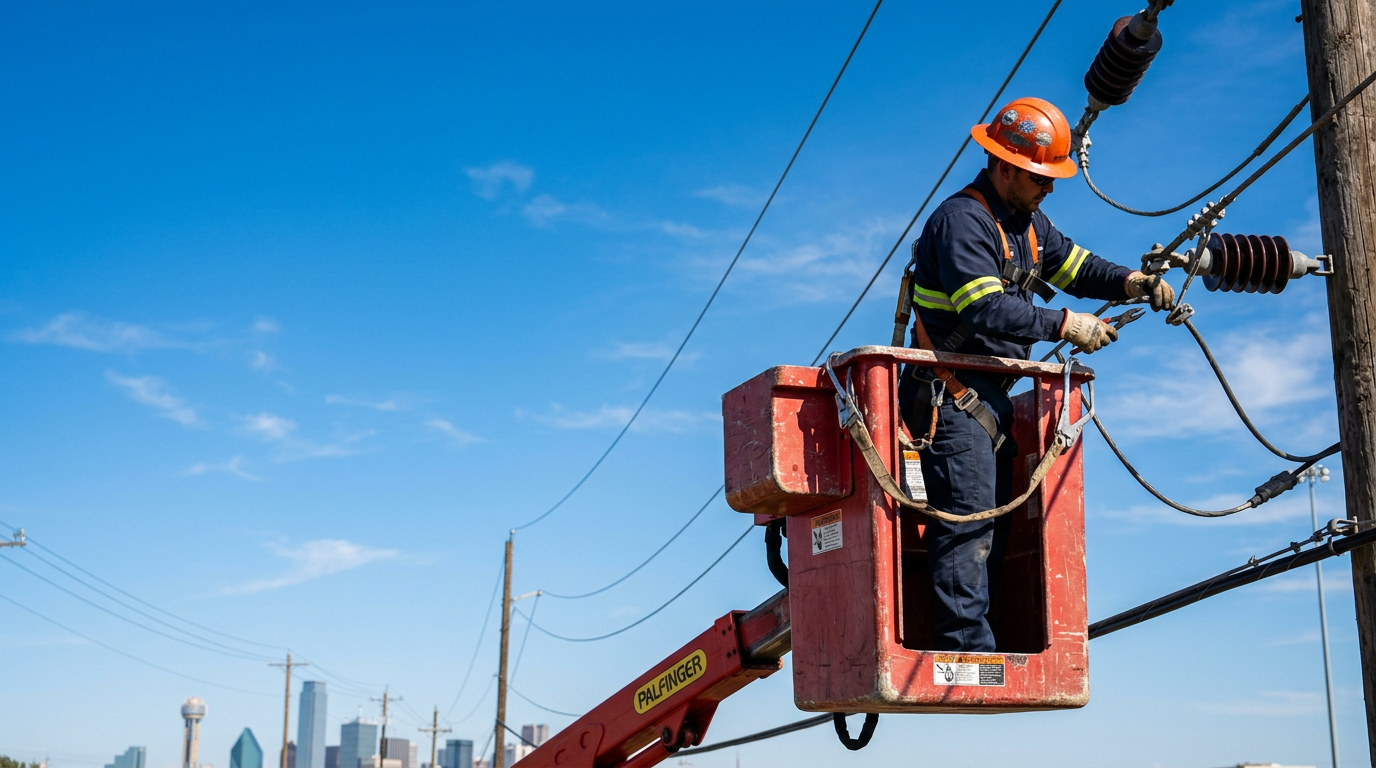
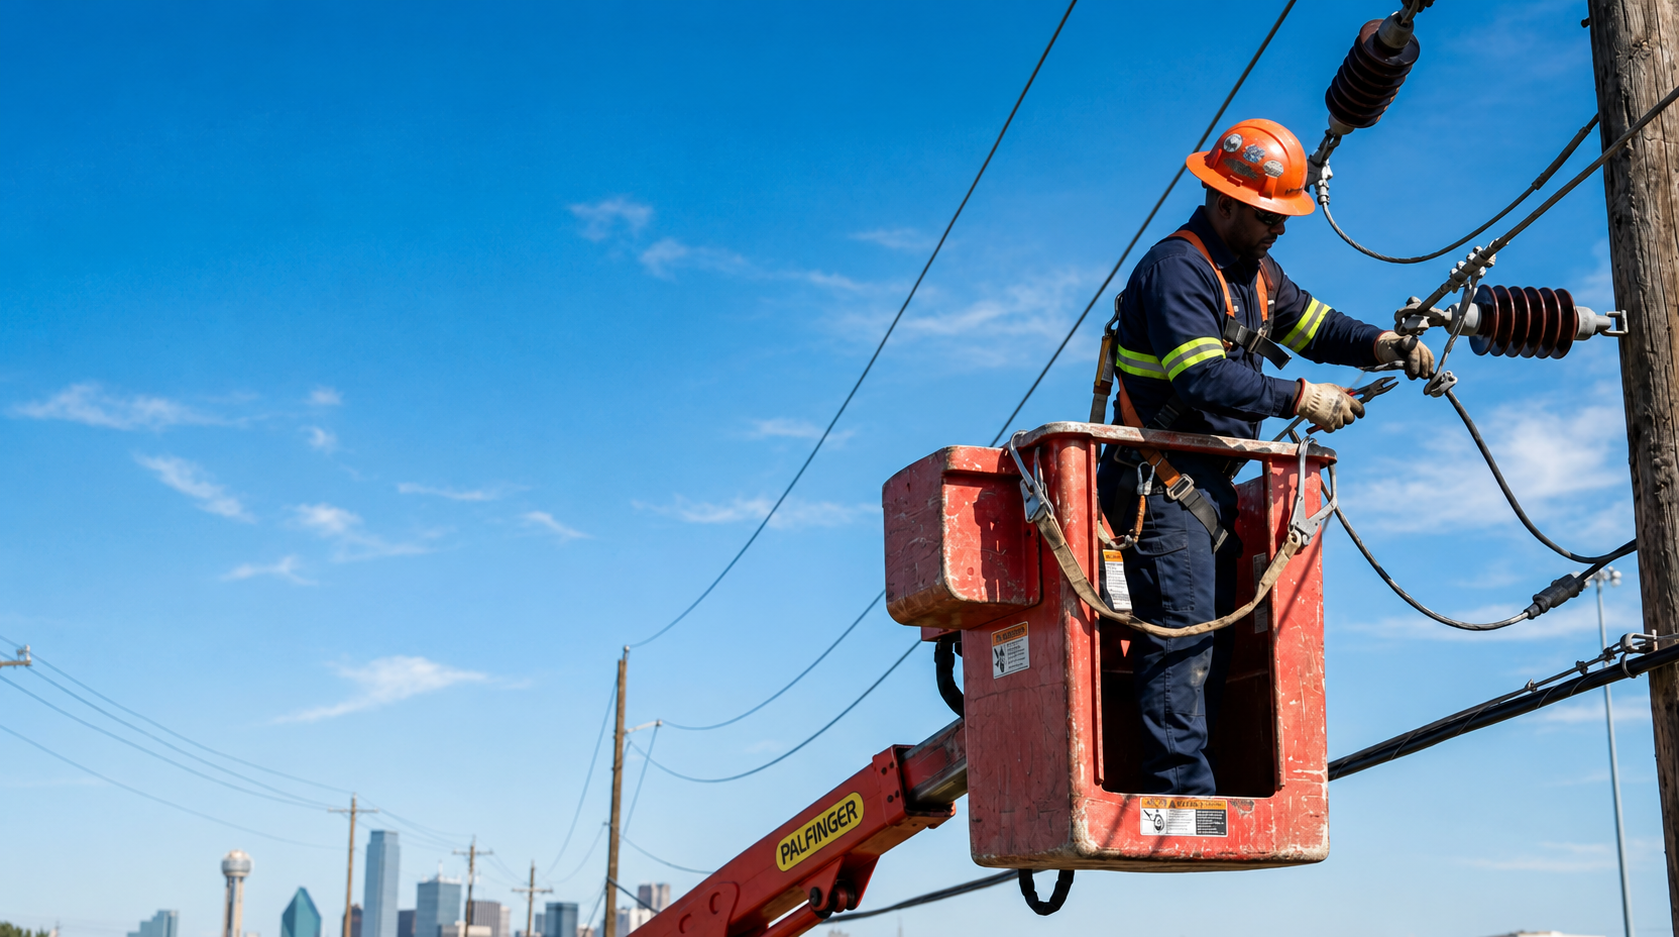
habiteck yellow

diff --git a/app/globals.css b/app/globals.css
@@ -167,8 +167,8 @@
   --site-ink: #171a1d;
   --site-deep: #11161b;
   --site-muted: #6b7279;
-  --site-yellow: #f5b900;
-  --site-yellow-bright: #ffc400;
+  --site-yellow: #58b51b;
+  --site-yellow-bright: #61c522;
   --site-line: #e6e8ea;
   overflow: hidden;
   background: #fff;
@@ -217,10 +217,10 @@
 .button { min-height: 48px; padding: 0 21px; display: inline-flex; align-items: center; justify-content: center; gap: 10px; border: 1px solid transparent; font-size: 12px; font-weight: 800; transition: transform .18s ease, background .18s ease, border-color .18s ease; }
 .button:hover { transform: translateY(-2px); }
 .button-primary { background: var(--site-yellow-bright); color: #15191c !important; }
-.button-primary:hover { background: #ffd23b; }
-.button-outline { border-color: rgba(255, 196, 0, .85); color: #fff !important; }
+.button-primary:hover { background: #75d53c; }
+.button-outline { border-color: rgba(97, 197, 34, .85); color: #fff !important; }
 .button-outline svg { color: var(--site-yellow-bright); }
-.button-outline:hover { background: rgba(255, 196, 0, .12); }
+.button-outline:hover { background: rgba(97, 197, 34, .12); }
 .hero-proof { margin-top: 35px; display: flex; align-items: center; gap: 14px; }
 .avatar-stack { display: flex; align-items: center; padding-left: 2px; }
 .avatar-stack span { width: 34px; height: 34px; margin-left: -5px; display: grid; place-items: center; border: 2px solid #272e34; border-radius: 50%; background: #d6a27f; color: #2b211c; font-size: 9px; font-weight: 800; }
@@ -243,31 +243,31 @@
 .trust-stat { min-height: 44px; padding-inline: 25px; display: flex; align-items: center; gap: 13px; border-right: 1px solid var(--site-line); }
 .trust-stat:first-child { padding-left: 0; }
 .trust-stat:last-child { padding-right: 0; border: 0; }
-.trust-stat > svg { flex: 0 0 auto; color: #c79400; stroke-width: 1.7; }
+.trust-stat > svg { flex: 0 0 auto; color: #4b9818; stroke-width: 1.7; }
 .trust-stat span { display: flex; flex-direction: column; }
 .trust-stat strong { font-size: 12px; line-height: 1.4; }
 .trust-stat small { margin-top: 3px; color: var(--site-muted); font-size: 10px; }
 .section-pad { padding-block: 100px; }
 .services-section { background: #f8f8f6; }
 .section-heading { margin-bottom: 39px; display: flex; align-items: end; justify-content: space-between; gap: 40px; }
-.section-heading .eyebrow, .booking-copy .eyebrow { margin-bottom: 13px; color: #8a6a09; }
+.section-heading .eyebrow, .booking-copy .eyebrow { margin-bottom: 13px; color: #438516; }
 .section-heading h2, .why-copy h2, .booking-copy h2 { margin: 0; font-size: clamp(36px, 4vw, 52px); font-weight: 600; letter-spacing: -.055em; line-height: 1.04; }
-.section-heading h2 span { color: #bf9100; }
+.section-heading h2 span { color: #58b51b; }
 .section-summary { max-width: 390px; margin: 0 0 2px; color: var(--site-muted); font-size: 13px; line-height: 1.7; }
 .service-grid { display: grid; grid-template-columns: repeat(4, minmax(0, 1fr)); gap: 15px; }
 .service-card { min-height: 236px; padding: 24px 22px 22px; display: flex; flex-direction: column; align-items: flex-start; border: 1px solid #e6e8e8; background: #fff; transition: transform .18s ease, box-shadow .18s ease; }
 .service-card:hover { transform: translateY(-4px); box-shadow: 0 14px 34px rgba(15, 22, 28, .08); }
 .service-card-top { width: 100%; display: flex; align-items: flex-start; justify-content: space-between; }
-.service-icon { width: 42px; height: 42px; display: grid; place-items: center; background: #fff5d5; color: #947000; }
+.service-icon { width: 42px; height: 42px; display: grid; place-items: center; background: #eff8e8; color: #478d1c; }
 .service-number { color: #aeb3b6; font-size: 10px; font-weight: 700; letter-spacing: .1em; }
 .service-card h3 { margin: 20px 0 8px; font-size: 16px; letter-spacing: -.02em; }
 .service-card p { margin: 0 0 18px; color: var(--site-muted); font-size: 11px; line-height: 1.65; }
-.service-card > a { margin-top: auto; display: inline-flex; align-items: center; gap: 7px; color: #765b00; font-size: 10px; font-weight: 800; }
-.service-card > a:hover { color: #aa8000; }
+.service-card > a { margin-top: auto; display: inline-flex; align-items: center; gap: 7px; color: #438516; font-size: 10px; font-weight: 800; }
+.service-card > a:hover { color: #58a91c; }
 
 .why-section { background: #151b20; color: #fff; }
 .why-layout { display: grid; grid-template-columns: .82fr 1.18fr; align-items: center; gap: 78px; }
-.why-copy .eyebrow { color: #e7bd45; }
+.why-copy .eyebrow { color: #83cf4a; }
 .why-copy h2 { font-size: clamp(42px, 5vw, 63px); }
 .why-copy h2 span { color: var(--site-yellow-bright); }
 .why-copy > p:not(.eyebrow) { max-width: 390px; margin: 23px 0 22px; color: #b7bec3; font-size: 13px; line-height: 1.8; }
@@ -281,25 +281,25 @@
 .photo-badge strong { font-size: 15px; }
 .benefit-list { display: grid; grid-template-columns: 1fr 1fr; gap: 13px 20px; }
 .benefit-item { display: flex; align-items: center; gap: 10px; color: #e4e7e8; font-size: 11px; line-height: 1.5; }
-.benefit-item > span { width: 21px; height: 21px; flex: 0 0 auto; display: grid; place-items: center; border-radius: 50%; background: rgba(245,185,0,.16); color: var(--site-yellow-bright); }
+.benefit-item > span { width: 21px; height: 21px; flex: 0 0 auto; display: grid; place-items: center; border-radius: 50%; background: rgba(88,181,27,.16); color: var(--site-yellow-bright); }
 
 .booking-section { background: #f7f8f8; }
 .booking-layout { display: grid; grid-template-columns: .72fr 1.28fr; align-items: start; gap: 68px; }
 .booking-copy { padding-top: 25px; }
 .booking-copy h2 { font-size: clamp(42px, 5vw, 62px); }
-.booking-copy h2 span { color: #b98900; }
+.booking-copy h2 span { color: #4d9619; }
 .booking-lede { max-width: 360px; margin: 23px 0 26px; color: var(--site-muted); font-size: 13px; line-height: 1.75; }
 .booking-callout { max-width: 330px; padding: 14px; display: flex; align-items: center; gap: 13px; border: 1px solid #e2e4e5; background: #fff; }
-.call-icon { width: 39px; height: 39px; display: grid; place-items: center; background: #fff4cf; color: #886900; }
+.call-icon { width: 39px; height: 39px; display: grid; place-items: center; background: #eff8e8; color: #478d1c; }
 .booking-callout > span:nth-child(2) { display: flex; flex: 1; flex-direction: column; }
 .booking-callout small { color: var(--site-muted); font-size: 10px; }
 .booking-callout strong { font-size: 14px; }
-.call-arrow { color: #8b6a00; }
+.call-arrow { color: #478d1c; }
 .booking-note { margin-top: 18px; display: flex; align-items: center; gap: 8px; color: #596168; font-size: 10px; }
-.booking-note svg { color: #9a7600; }
+.booking-note svg { color: #4b9818; }
 .booking-form { padding: 31px; border: 1px solid #e5e7e8; background: #fff; box-shadow: 0 18px 50px rgba(21, 29, 36, .07); }
 .form-intro { margin-bottom: 22px; }
-.form-intro .eyebrow { margin-bottom: 8px; color: #927000; }
+.form-intro .eyebrow { margin-bottom: 8px; color: #478d1c; }
 .form-intro h3 { margin: 0; font-size: 24px; letter-spacing: -.04em; }
 .form-intro p { margin: 6px 0 0; color: var(--site-muted); font-size: 11px; }
 .form-grid { display: grid; grid-template-columns: repeat(2, minmax(0, 1fr)); gap: 15px 13px; }
@@ -308,7 +308,7 @@
 .field input, .field select, .field textarea { width: 100%; min-height: 42px; padding: 10px 11px; border: 1px solid #dfe2e4; border-radius: 0; outline: none; background: #fff; color: #202428; font-size: 11px; font-weight: 400; transition: border-color .15s ease, box-shadow .15s ease; }
 .field textarea { min-height: 83px; resize: vertical; }
 .field input::placeholder, .field textarea::placeholder { color: #9aa1a5; }
-.field input:focus, .field select:focus, .field textarea:focus { border-color: #c59700; box-shadow: 0 0 0 3px rgba(245, 185, 0, .12); }
+.field input:focus, .field select:focus, .field textarea:focus { border-color: #58b51b; box-shadow: 0 0 0 3px rgba(88, 181, 27, .12); }
 .optional { color: #8b9296; font-weight: 400; }
 .input-with-icon { position: relative; display: block; }
 .input-with-icon > svg { position: absolute; z-index: 1; top: 50%; left: 10px; color: #81888d; transform: translateY(-50%); pointer-events: none; }

diff --git a/app/layout.tsx b/app/layout.tsx
@@ -1,49 +1,50 @@
-import { Analytics } from '@vercel/analytics/next'
-import type { Metadata, Viewport } from 'next'
-import './globals.css'
+import { Analytics } from "@vercel/analytics/next";
+import type { Metadata, Viewport } from "next";
+import "./globals.css";
 
 export const metadata: Metadata = {
-  title: 'Habitech Power Limited | Electrical & Solar Services in Lagos',
-  description: 'Habitech Power Limited provides electrical installation, maintenance, solar inverter, solar panel, water pumping, CCTV, and industrial electrical services in Lagos and across Nigeria.',
-  generator: 'v0.app',
+  title: "Habitech Power Limited | Electrical & Solar Services in Lagos",
+  description:
+    "Habitech Power Limited provides electrical installation, maintenance, solar inverter, solar panel, water pumping, CCTV, and industrial electrical services in Lagos and across Nigeria.",
+  generator: "",
   icons: {
     icon: [
       {
-        url: '/icon-light-32x32.png',
-        media: '(prefers-color-scheme: light)',
+        url: "/habitech-logo.jpeg",
+        media: "(prefers-color-scheme: light)",
       },
       {
-        url: '/icon-dark-32x32.png',
-        media: '(prefers-color-scheme: dark)',
+        url: "/habitech-logo.jpeg",
+        media: "(prefers-color-scheme: dark)",
       },
       {
-        url: '/icon.svg',
-        type: 'image/svg+xml',
+        url: "/habitech-logo.jpeg",
+        type: "image/svg+xml",
       },
     ],
-    apple: '/apple-icon.png',
+    apple: "/habitech-logo.jpeg",
   },
-}
+};
 
 export const viewport: Viewport = {
-  colorScheme: 'light dark',
+  colorScheme: "light dark",
   themeColor: [
-    { media: '(prefers-color-scheme: light)', color: 'white' },
-    { media: '(prefers-color-scheme: dark)', color: 'black' },
+    { media: "(prefers-color-scheme: light)", color: "white" },
+    { media: "(prefers-color-scheme: dark)", color: "black" },
   ],
-}
+};
 
 export default function RootLayout({
   children,
 }: Readonly<{
-  children: React.ReactNode
+  children: React.ReactNode;
 }>) {
   return (
     <html lang="en">
       <body className="antialiased">
         {children}
-        {process.env.NODE_ENV === 'production' && <Analytics />}
+        {process.env.NODE_ENV === "production" && <Analytics />}
       </body>
     </html>
-  )
+  );
 }
